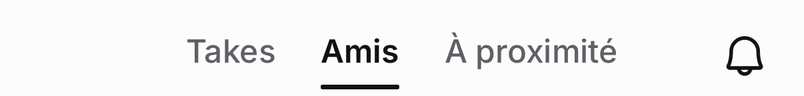
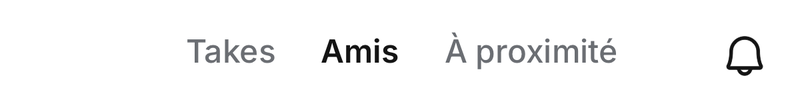
Glissé façon X : accueil en sombre, trait de l'accueil qui suit les pages

Changed region(s): [[0.3731, 0.875, 0.4975, 0.9375]]

diff --git a/glisse-x-06-10/index.html b/glisse-x-06-10/index.html
@@ -58,6 +58,7 @@ figure{margin:0}
 .phone .status.h{background-image:var(--img-h-status)}
 .phone .bar{position:absolute;left:0;bottom:0;width:402px;height:84px;background:var(--img-bar) 0 0/402px 84px no-repeat}
 .phone .hbar{position:absolute;left:0;top:54px;width:402px;height:48px;background:var(--t-page) var(--img-h-bar) 0 0/402px 48px no-repeat;z-index:2;will-change:transform,opacity}
+.phone .hbar .hul{position:absolute;left:0;top:42.3px;width:39px;height:2.5px;border-radius:1.25px;background:var(--t-ink)}
 .phone .dock{position:absolute;left:0;bottom:0;width:402px;height:139px;background:var(--img-h-dock) 0 0/402px 139px no-repeat}
 .phone .finger{position:absolute;left:0;top:0;width:46px;height:46px;margin:-23px;border-radius:50%;background:rgba(120,120,128,.45);border:2px solid rgba(255,255,255,.9);opacity:0;pointer-events:none;z-index:4}
 .missing{position:absolute;inset:0;display:none;align-items:center;justify-content:center;text-align:center;padding:40px;background:var(--t-page);color:var(--t-soft);font-size:17px;z-index:9}
@@ -118,7 +119,7 @@ X.forEach(function (d, i) {
 });
 var CMP = window.CMP || {};
 document.querySelectorAll('[data-cmp]').forEach(function (n) { var t = CMP[n.dataset.cmp]; if (t) n.innerHTML = t; else n.remove() });
-var HOME_DARK = false;
+var HOME_DARK = true;
 function setTheme(t) {
   document.body.dataset.theme = t;
   ['takes', 'questions', 'head', 'head-nu', 'status', 'bar', 'h-takes', 'h-amis', 'h-bar', 'h-status', 'h-dock'].forEach(function (n) {

diff --git a/glisse-x-06-10/glisse-x.js b/glisse-x-06-10/glisse-x.js
@@ -84,10 +84,11 @@
     var takesRows = el('div', 'rows h-takes', takes)
     var amisRows = el('div', 'rows h-amis', amis)
     var bar = el('div', 'hbar', phone)
+    var hul = el('i', 'hul', bar)
     el('div', 'status h', phone)
     el('div', 'dock', phone)
     var finger = el('div', 'finger', phone)
-    return { takes: takes, amis: amis, takesRows: takesRows, amisRows: amisRows, hbar: bar, finger: finger }
+    return { takes: takes, amis: amis, takesRows: takesRows, amisRows: amisRows, hbar: bar, hul: hul, finger: finger }
   }
 
   function placeFinger(v, c) {
@@ -136,6 +137,8 @@
     v.takesRows.style.top = (TOP + push) + 'px'
     v.hbar.style.transform = 'translateY(' + y + 'px)'
     v.hbar.style.opacity = o
+    // trait sous « Takes » (centre 115,8 pt) puis sous « Amis » (179,8 pt), 39 × 2,5 pt, lu dans les captures
+    v.hul.style.transform = 'translateX(' + lerp(96.3, 160.3, clamp(c.p, 0, 1)) + 'px)'
     placeFinger(v, c)
   }
 
